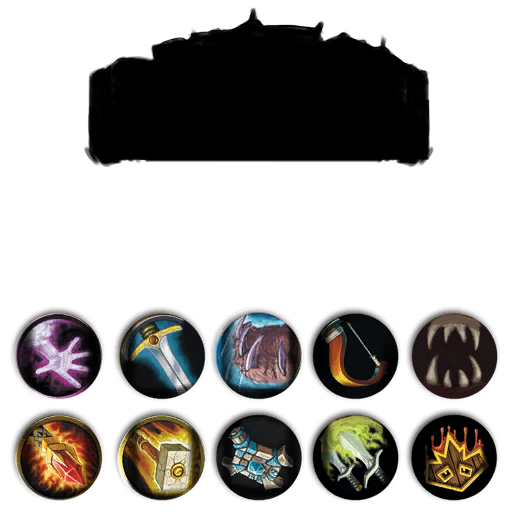
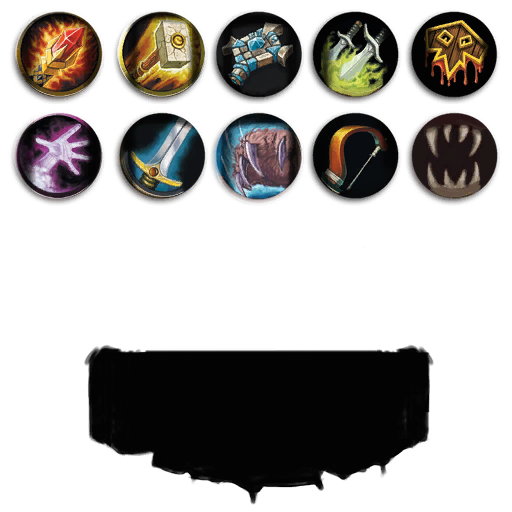
hero filter button styling

diff --git a/intermediate/new-finish/app/css/style.css b/intermediate/new-finish/app/css/style.css
@@ -51,17 +51,110 @@ body:active, a:active {
   outline-color: rgb(252, 209, 68);
 }
 
+#card-filter {
+  padding: 0 20px;
+}
+
 #card-filter ul {
   list-style-type: none;
   margin: 0;
   padding: 0;
-  overflow: hidden;
 }
 
 #card-filter li {
   float: left;
   width: 60px;
+  height: 50px;
+  background: url("/img/ClassIcons_ForTabs.png") no-repeat;
+  background-size: 600%;
+  background-color: black;
+  border-radius: 40px/15px;
+  margin-right: 12px;
+  box-shadow: 1px 4px 4px 3px rgba(0,0,0,0.75);
+  position: relative;
+  border: 2px solid black;
+  margin-bottom: -3px;
+}
+
+#card-filter li:before {
+  content: "";
+  background: url("/img/ArrowsCardCounts.png") no-repeat;
+  border: 6px solid rgba(234,188,109,1.0);
+  position: absolute;
+  width: 58px;
+  height: 120%;
+  pointer-events: none;
+  border-radius: 40px/15px;
+  top: -1px;
+  left: -1px;
+}
+
+#card-filter li:after {
+  content: "";
+  border: 3px solid rgba(255,246,136, 0.75);
+  position: absolute;
+  width: 53px;
+  height: 100%;
+  top: 2px;
+  border-radius: 40px/15px;
+  left: 1px;
+  box-shadow: inset 3px 2px 1px rgba(0,0,0,0.5);
+  pointer-events: none;
+}
+
+#card-filter li a {
+  display: block;
+  width: 60px;
   height: 60px;
+}
+
+#card-filter li:hover:before {
+  box-shadow: inset 0px 4px 24px rgba(0,0,0,1.0);
+}
+
+#card-filter li.current {
+  transform: scale(1.45);
+  margin-right: 0px;
+  z-index: 1;
+}
+
+#card-filter li.current + li {
+  margin-left: 11px;
+}
+
+#card-filter li.current:before {
+  box-shadow: inset 0px 4px 24px rgba(234,188,109,1.0);
+}
+
+#card-filter li.neutral {
+  background-position: -270px -82px;
+}
+#card-filter li.shaman {
+  background-position: -271px -7px;
+}
+#card-filter li.paladin {
+  background-position: -78px -11px;
+}
+#card-filter li.mage {
+  background-position: -10px -10px;
+}
+#card-filter li.druid {
+  background-position: -140px -80px;
+}
+#card-filter li.hunter {
+  background-position: -205px -81px;
+}
+#card-filter li.rogue {
+  background-position: -205px -8px;
+}
+#card-filter li.warrior {
+  background-position: -79px -76px;
+}
+#card-filter li.priest {
+  background-position: -141px -8px;
+}
+#card-filter li.warlock {
+  background-position: -9px -75px;
 }
 
 .card-builder-nav li {

diff --git a/intermediate/new-finish/app/templates/hearthstone.html b/intermediate/new-finish/app/templates/hearthstone.html
@@ -1,4 +1,4 @@
-<div id="hearthstone" class="row" ng-cloak>
+<div id="hearthstone" class="row">
   <div class="column large-12 text-center">
     <img src="/img/logo-small.png" height="178" width="435" alt="">
     <nav class="card-builder-nav" role="navigation">
@@ -25,15 +25,16 @@
   </div>
   <div class="large-12 column">
     <div id="card-filter">
-      <ul class="pagination">
-        <li ng-class="{current:currentHeroFilter === heroFilter.value}"
+      <ul>
+        <li class="{{heroFilter.value}}"
+            ng-class="{current:currentHeroFilter === heroFilter.value}"
             ng-repeat="heroFilter in heroFilterOptions">
-          <a href="" ng-click="filterCards(cardDB, 'hero', heroFilter.value)">{{heroFilter.label}}</a>
+          <a href="" ng-click="filterCards(cardDB, 'hero', heroFilter.value)"></a>
         </li>
       </ul>
     </div>
   </div>
-  <div class="large-12 column">
+  <div class="large-12 column" style="z-index: 1;">
     <div class="prev-page" ng-click="prevPage()"></div>
     <div class="hero-filter {{currentHeroFilter}}">
       <span>{{currentHeroFilter | capitalize}}</span>

diff --git a/intermediate/new-finish/app/css/animations.css b/intermediate/new-finish/app/css/animations.css
@@ -1,7 +1,7 @@
 .card.ng-enter {
-  transition: all 0.5s ease-out;
-  transform: scale(0.75);
-  opacity: 0.25;
+  /*transition: all 0.5s linear;*/
+  /*transform: scale(0.75);*/
+  /*opacity: 0.25;*/
 }
 
 /*.card.ng-enter-stagger {
@@ -10,6 +10,6 @@
 }*/
 
 .card.ng-enter-active {
-  transform: scale(1);
-  opacity: 1;
+  /*transform: scale(1);*/
+  /*opacity: 1;*/
 }
